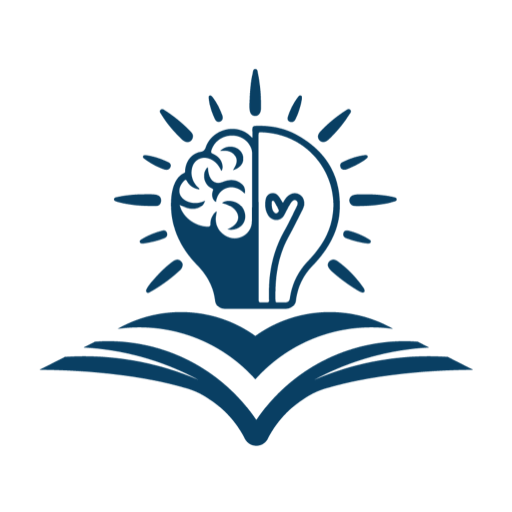
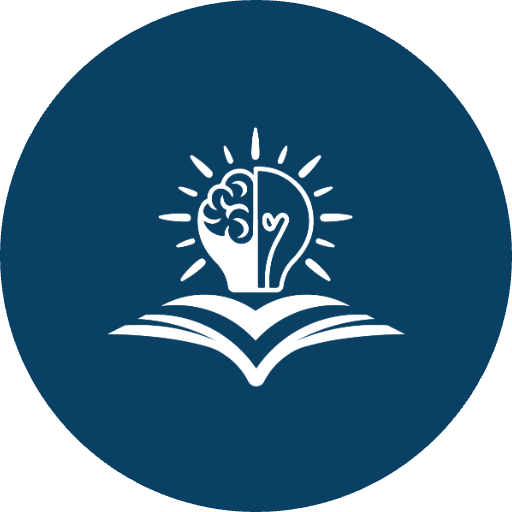
feat(pwa): بانر تحفيز تثبيت التطبيق + أيقونات دائرية
- usePwaInstall: يلتقط beforeinstallprompt، ذاكرة إغلاق 14 يوماً،
  كشف iOS (لا يدعم التثبيت البرمجي) وكشف standalone
- PwaInstallBanner: بانر سفليّ عربي RTL يظهر بعد 3 ثوانٍ، قابل للإغلاق،
  وعلى iOS يعرض إرشاد «شارك ← أضف إلى الشاشة الرئيسية»
- الأيقونات: دائرة كحلية بشعار أبيض (any) + مربّع كحلي مملوء (maskable)

diff --git a/app/components/PwaInstallBanner.vue b/app/components/PwaInstallBanner.vue
@@ -1,0 +1,133 @@
+<script setup lang="ts">
+/**
+ * بانر تحفيز تثبيت التطبيق (PWA) — يظهر أسفل الشاشة بعد مهلة قصيرة حين يكون
+ * الموقع قابلاً للتثبيت. زرّ «تثبيت التطبيق» يفتح الحوار الأصلي؛ على iOS يظهر
+ * إرشاد يدوي (شارك ← أضف إلى الشاشة الرئيسية). قابل للإغلاق مع ذاكرة.
+ */
+const { visible, ios, install, dismiss } = usePwaInstall()
+const showIosSteps = ref(false)
+
+async function onInstall() {
+  if (ios.value) {
+    showIosSteps.value = !showIosSteps.value
+    return
+  }
+  await install()
+}
+</script>
+
+<template>
+  <ClientOnly>
+    <Transition name="pwa-slide">
+      <div
+        v-if="visible"
+        class="pwa-banner"
+        role="dialog"
+        aria-label="تثبيت التطبيق"
+      >
+        <button
+          class="pwa-close"
+          aria-label="إغلاق"
+          @click="dismiss"
+        >
+          <UIcon
+            name="i-lucide-x"
+            class="size-5"
+          />
+        </button>
+
+        <div class="pwa-head">
+          <img
+            src="/icon-192.png"
+            alt="ترجمان"
+            class="pwa-icon"
+          >
+          <div class="pwa-text">
+            <p class="pwa-title">
+              ثبّت تطبيق ترجمان على شاشتك الرئيسية
+            </p>
+            <p class="pwa-sub">
+              وصول أسرع بنقرة واحدة، وتجربة كتطبيق مستقلّ.
+            </p>
+          </div>
+        </div>
+
+        <!-- إرشاد iOS -->
+        <div
+          v-if="ios && showIosSteps"
+          class="pwa-ios"
+        >
+          <p class="pwa-ios-step">
+            <UIcon
+              name="i-lucide-share"
+              class="size-4"
+            />
+            اضغط زرّ «المشاركة» في أسفل Safari
+          </p>
+          <p class="pwa-ios-step">
+            <UIcon
+              name="i-lucide-plus-square"
+              class="size-4"
+            />
+            اختر «إضافة إلى الشاشة الرئيسية»
+          </p>
+        </div>
+
+        <UButton
+          :label="ios ? (showIosSteps ? 'إخفاء الخطوات' : 'كيف أثبّته؟') : 'تثبيت التطبيق'"
+          :icon="ios ? 'i-lucide-share' : 'i-lucide-download'"
+          color="primary"
+          size="lg"
+          block
+          :ui="{ base: 'rounded-[14px] font-bold' }"
+          @click="onInstall"
+        />
+      </div>
+    </Transition>
+  </ClientOnly>
+</template>
+
+<style scoped>
+.pwa-banner {
+  position: fixed;
+  inset-inline: 16px;
+  bottom: 16px;
+  z-index: 60;
+  max-width: 460px;
+  margin-inline: auto;
+  padding: 18px 18px 16px;
+  background: var(--surface);
+  border: 1px solid var(--line);
+  border-radius: 22px;
+  box-shadow: var(--shadow-lg);
+}
+.pwa-close {
+  position: absolute;
+  inset-inline-start: 12px;
+  top: 12px;
+  display: inline-flex;
+  align-items: center;
+  justify-content: center;
+  width: 32px;
+  height: 32px;
+  border-radius: 10px;
+  color: var(--ink-3);
+  background: transparent;
+  transition: background .15s, color .15s;
+}
+.pwa-close:hover { background: var(--surface-3); color: var(--ink); }
+.pwa-head { display: flex; align-items: center; gap: 14px; margin-bottom: 14px; padding-inline-end: 28px; }
+.pwa-icon { width: 54px; height: 54px; border-radius: 15px; flex-shrink: 0; box-shadow: var(--shadow); }
+.pwa-text { min-width: 0; }
+.pwa-title { margin: 0 0 4px; font-size: 15.5px; font-weight: 800; color: var(--ink); line-height: 1.4; }
+.pwa-sub { margin: 0; font-size: 13px; color: var(--ink-2); line-height: 1.6; }
+.pwa-ios { margin-bottom: 14px; padding: 12px 14px; background: var(--surface-2); border: 1px solid var(--line); border-radius: 14px; display: flex; flex-direction: column; gap: 8px; }
+.pwa-ios-step { margin: 0; display: flex; align-items: center; gap: 8px; font-size: 13.5px; color: var(--ink); }
+
+.pwa-slide-enter-active, .pwa-slide-leave-active { transition: transform .35s cubic-bezier(.16, 1, .3, 1), opacity .35s; }
+.pwa-slide-enter-from, .pwa-slide-leave-to { transform: translateY(24px); opacity: 0; }
+
+@media (max-width: 380px) {
+  .pwa-title { font-size: 14.5px; }
+}
+</style>

diff --git a/app/composables/usePwaInstall.ts b/app/composables/usePwaInstall.ts
@@ -1,0 +1,106 @@
+/**
+ * منطق تحفيز تثبيت التطبيق (PWA) — يلتقط حدث beforeinstallprompt ويقرّر متى
+ * يظهر البانر المخصّص. لا يظهر إن كان مثبّتاً مسبقاً (standalone) أو أُغلق مؤخّراً.
+ * iOS لا يدعم التثبيت البرمجي، فنكتفي بإظهار إرشاد يدوي.
+ */
+
+type BeforeInstallPromptEvent = Event & {
+  prompt: () => Promise<void>
+  userChoice: Promise<{ outcome: 'accepted' | 'dismissed' }>
+}
+
+const DISMISS_KEY = 'turjuman:pwa-install-dismissed'
+const DISMISS_DAYS = 14 // لا يُعاد الظهور قبل أسبوعين من الإغلاق
+const SHOW_DELAY_MS = 3000 // مهلة قبل الظهور (كي يرى المستخدم القيمة أولاً)
+
+export function usePwaInstall() {
+  const deferred = ref<BeforeInstallPromptEvent | null>(null)
+  const ready = ref(false) // انقضت المهلة
+  const installed = ref(false)
+
+  // نعمل على العميل فقط (الأحداث والـ localStorage غير متاحة على الخادم)
+  const isStandalone = () => {
+    if (import.meta.server) return false
+    return window.matchMedia('(display-mode: standalone)').matches
+      || (window.navigator as unknown as { standalone?: boolean }).standalone === true
+  }
+
+  const isIOS = () => {
+    if (import.meta.server) return false
+    const ua = window.navigator.userAgent
+    const iOSDevice = /iphone|ipad|ipod/i.test(ua)
+    const iPadOS = navigator.platform === 'MacIntel' && navigator.maxTouchPoints > 1
+    return (iOSDevice || iPadOS) && /safari/i.test(ua) && !/crios|fxios|edgios/i.test(ua)
+  }
+
+  const dismissedRecently = () => {
+    if (import.meta.server) return false
+    const raw = localStorage.getItem(DISMISS_KEY)
+    if (!raw) return false
+    const ts = Number(raw)
+    if (Number.isNaN(ts)) return false
+    return (Date.now() - ts) < DISMISS_DAYS * 24 * 60 * 60 * 1000
+  }
+
+  // يظهر البانر إذا: انقضت المهلة، وغير مثبّت، وغير مُغلَق مؤخّراً،
+  // و(قابل للتثبيت فعلاً عبر الحدث أو نظام iOS الذي يحتاج إرشاداً).
+  const visible = computed(() =>
+    ready.value
+    && !installed.value
+    && (!!deferred.value || isIOS())
+    && !isStandalone()
+    && !dismissedRecently())
+
+  const ios = ref(false)
+
+  let onPrompt: ((e: Event) => void) | null = null
+  let onInstalled: (() => void) | null = null
+  let timer: ReturnType<typeof setTimeout> | null = null
+
+  onMounted(() => {
+    if (isStandalone()) {
+      installed.value = true
+      return
+    }
+    ios.value = isIOS()
+
+    onPrompt = (e: Event) => {
+      e.preventDefault() // امنع تلميح Chrome الافتراضي؛ نعرض بانرنا بدلاً منه
+      deferred.value = e as BeforeInstallPromptEvent
+    }
+    onInstalled = () => {
+      installed.value = true
+      deferred.value = null
+    }
+    window.addEventListener('beforeinstallprompt', onPrompt)
+    window.addEventListener('appinstalled', onInstalled)
+
+    timer = setTimeout(() => {
+      ready.value = true
+    }, SHOW_DELAY_MS)
+  })
+
+  onUnmounted(() => {
+    if (onPrompt) window.removeEventListener('beforeinstallprompt', onPrompt)
+    if (onInstalled) window.removeEventListener('appinstalled', onInstalled)
+    if (timer) clearTimeout(timer)
+  })
+
+  /** يستدعي حوار التثبيت الأصلي (Chrome/Android). */
+  async function install() {
+    const evt = deferred.value
+    if (!evt) return
+    await evt.prompt()
+    const choice = await evt.userChoice
+    deferred.value = null
+    if (choice.outcome === 'accepted') installed.value = true
+  }
+
+  /** يُخفي البانر ويتذكّر الإغلاق (لا يعود قبل DISMISS_DAYS). */
+  function dismiss() {
+    if (!import.meta.server) localStorage.setItem(DISMISS_KEY, String(Date.now()))
+    ready.value = false
+  }
+
+  return { visible, ios, install, dismiss }
+}

diff --git a/app/app.vue b/app/app.vue
@@ -11,5 +11,6 @@
     <NuxtLayout>
       <NuxtPage />
     </NuxtLayout>
+    <PwaInstallBanner />
   </UApp>
 </template>
